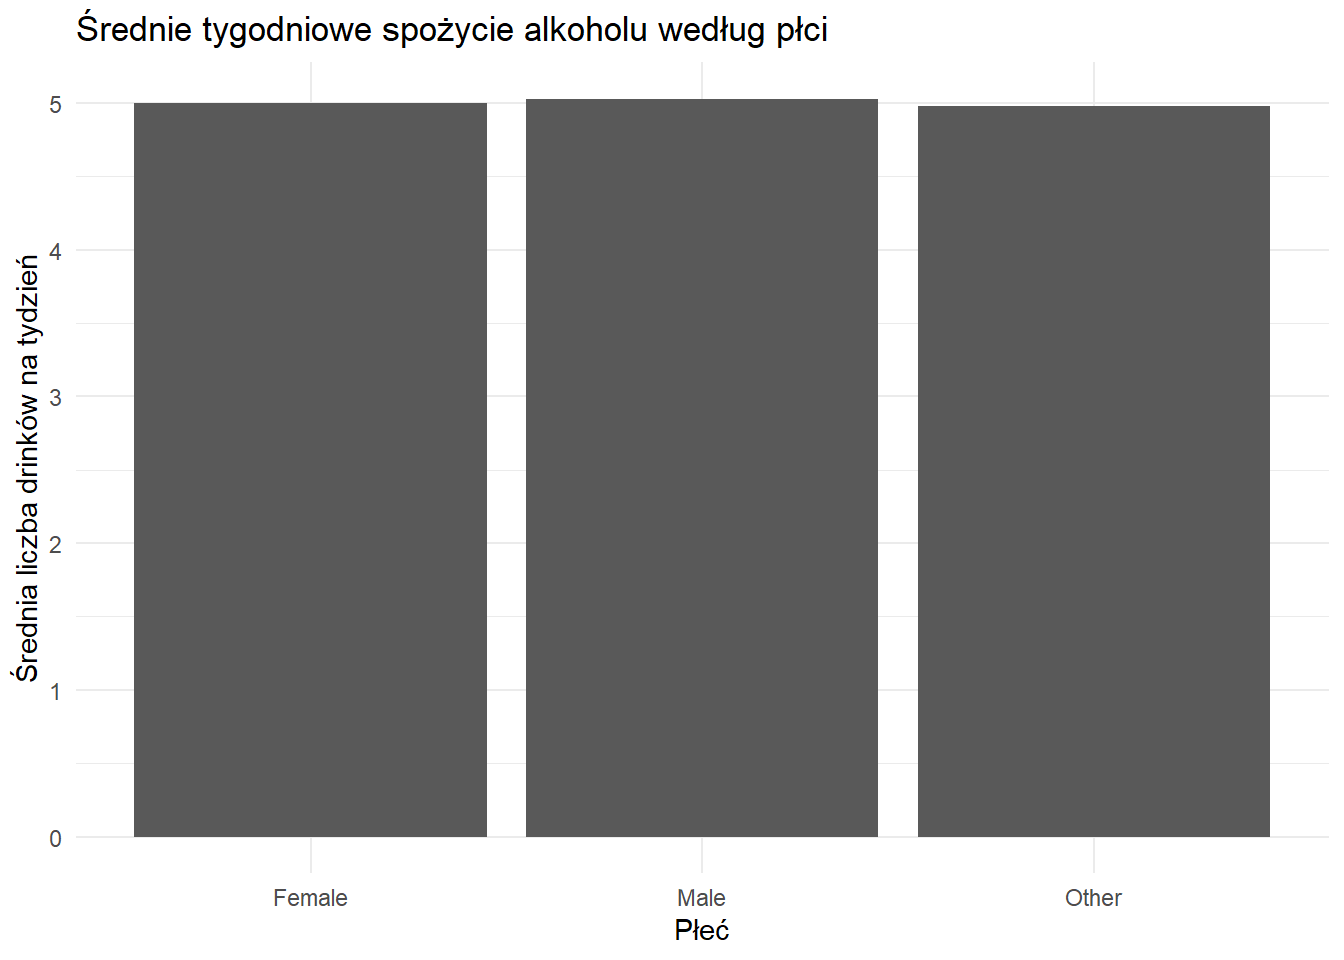
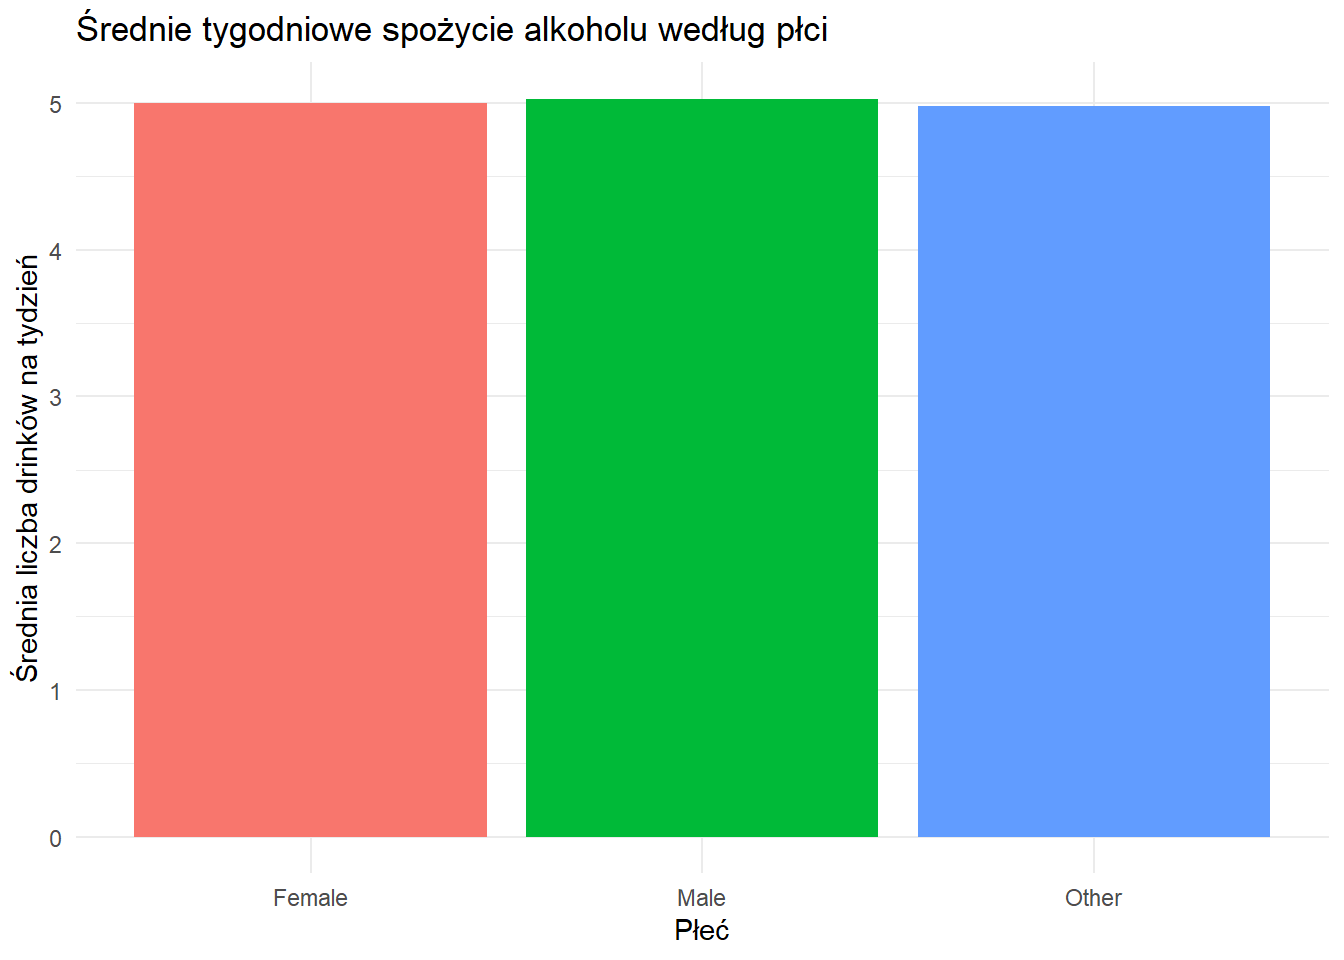
dodanie-kolorow

diff --git a/docs/analiza.html b/docs/analiza.html
@@ -11,7 +11,7 @@
 
 <meta name="author" content="Kajetan Kaczyński" />
 
-<meta name="date" content="2026-01-14" />
+<meta name="date" content="2026-01-16" />
 
 <title>Analiza danych dotyczących zachowań zdrowotnych i uzależnień</title>
 
@@ -381,7 +381,7 @@ div.tocify {
 <h1 class="title toc-ignore">Analiza danych dotyczących zachowań
 zdrowotnych i uzależnień</h1>
 <h4 class="author">Kajetan Kaczyński</h4>
-<h4 class="date">2026-01-14</h4>
+<h4 class="date">2026-01-16</h4>
 
 </div>
 
@@ -410,7 +410,7 @@ aria-hidden="true"></span> </a>
 <div class="tab-content">
 <div id="summary" class="tab-pane fade in active">
 <p>
-<strong>Last updated:</strong> 2026-01-14
+<strong>Last updated:</strong> 2026-01-16
 </p>
 <p>
 <strong>Checks:</strong> <span
@@ -544,15 +544,15 @@ project makes it easier to run your code on other machines.</p>
 <div class="panel panel-default">
 <div class="panel-heading">
 <p class="panel-title">
-<a data-toggle="collapse" data-parent="#workflowr-checks" href="#strongRepositoryversionstrongahrefhttpsgithubcomK4j745KKprogramrtreedd69dc56c4fa036e4ccbe00f48bdd0d966735bf2targetblankdd69dc5a">
+<a data-toggle="collapse" data-parent="#workflowr-checks" href="#strongRepositoryversionstrongahrefhttpsgithubcomK4j745KKprogramrtree1e31b9c4e70c803ec3b2b6c8d0462f393568eb8ftargetblank1e31b9ca">
 <span class="glyphicon glyphicon-ok text-success"
 aria-hidden="true"></span> <strong>Repository version:</strong>
-<a href="https://github.com/K4j745/KK_program_r/tree/dd69dc56c4fa036e4ccbe00f48bdd0d966735bf2" target="_blank">dd69dc5</a>
+<a href="https://github.com/K4j745/KK_program_r/tree/1e31b9c4e70c803ec3b2b6c8d0462f393568eb8f" target="_blank">1e31b9c</a>
 </a>
 </p>
 </div>
 <div
[2 lines of base64/hex data omitted]
 class="panel-collapse collapse">
 <div class="panel-body">
 <p>
@@ -562,7 +562,7 @@ reproducibility.
 </p>
 <p>
 The results in this page were generated with repository version
-<a href="https://github.com/K4j745/KK_program_r/tree/dd69dc56c4fa036e4ccbe00f48bdd0d966735bf2" target="_blank">dd69dc5</a>.
+<a href="https://github.com/K4j745/KK_program_r/tree/1e31b9c4e70c803ec3b2b6c8d0462f393568eb8f" target="_blank">1e31b9c</a>.
 See the <em>Past versions</em> tab to see a history of the changes made
 to the R Markdown and HTML files.
 </p>
@@ -580,9 +580,7 @@ Ignored files:
     Ignored:    .RData
     Ignored:    .Rhistory
     Ignored:    .Rproj.user/
-
-Untracked files:
-    Untracked:  analysis/addiction_population_data.csv
+    Ignored:    analysis/prezentacja.html
 
 Unstaged changes:
     Modified:   analysis/analiza.Rmd
@@ -631,6 +629,40 @@ Message
 </tr>
 </thead>
 <tbody>
+<tr>
+<td>
+Rmd
+</td>
+<td>
+<a href="https://github.com/K4j745/KK_program_r/blob/1e31b9c4e70c803ec3b2b6c8d0462f393568eb8f/analysis/analiza.Rmd" target="_blank">1e31b9c</a>
+</td>
+<td>
+Kajetan
+</td>
+<td>
+2026-01-14
+</td>
+<td>
+War_is_over
+</td>
+</tr>
+<tr>
+<td>
+html
+</td>
+<td>
+<a href="https://rawcdn.githack.com/K4j745/KK_program_r/1e31b9c4e70c803ec3b2b6c8d0462f393568eb8f/docs/analiza.html" target="_blank">1e31b9c</a>
+</td>
+<td>
+Kajetan
+</td>
+<td>
+2026-01-14
+</td>
+<td>
+War_is_over
+</td>
+</tr>
 <tr>
 <td>
 Rmd
@@ -716,15 +748,53 @@ dane &lt;- read.csv(&quot;analysis/addiction_population_data.csv&quot;)</code></
 <div id="wykres-słupkowy-spożycie-alkoholu-według-płci"
 class="section level3">
 <h3>Wykres słupkowy – spożycie alkoholu według płci</h3>
-<pre class="r"><code>ggplot(alkohol_plec, aes(x = gender, y = srednia_liczba_drinkow)) +
+<pre class="r"><code>ggplot(alkohol_plec, aes(x = gender, y = srednia_liczba_drinkow, fill = gender)) +
   geom_col() +
   labs(
     title = &quot;Średnie tygodniowe spożycie alkoholu według płci&quot;,
     x = &quot;Płeć&quot;,
     y = &quot;Średnia liczba drinków na tydzień&quot;
   ) +
-  theme_minimal()</code></pre>
+  theme_minimal() +
+  guides(fill = &quot;none&quot;)</code></pre>
 <p><img src="figure/analiza.Rmd/unnamed-chunk-3-1.png" width="672" style="display: block; margin: auto;" /></p>
+<p>
+<button type="button" class="btn btn-default btn-xs btn-workflowr btn-workflowr-fig" data-toggle="collapse" data-target="#fig-unnamed-chunk-3-1">
+Past versions of unnamed-chunk-3-1.png
+</button>
+</p>
+<div id="fig-unnamed-chunk-3-1" class="collapse">
+<div class="table-responsive">
+<table class="table table-condensed table-hover">
+<thead>
+<tr>
+<th>
+Version
+</th>
+<th>
+Author
+</th>
+<th>
+Date
+</th>
+</tr>
+</thead>
+<tbody>
+<tr>
+<td>
+<a href="https://github.com/K4j745/KK_program_r/blob/1e31b9c4e70c803ec3b2b6c8d0462f393568eb8f/docs/figure/analiza.Rmd/unnamed-chunk-3-1.png" target="_blank">1e31b9c</a>
+</td>
+<td>
+Kajetan
+</td>
+<td>
+2026-01-14
+</td>
+</tr>
+</tbody>
+</table>
+</div>
+</div>
 <p>Komentarz: Wykres przedstawia różnice w średnim spożyciu alkoholu
 pomiędzy płciami.</p>
 <hr />
@@ -740,7 +810,8 @@ class="section level3">
   )
 
 ggplot(papierosy_wiek, aes(x = age, y = srednia_papierosow)) +
-  geom_line() +
+  geom_line(color = &quot;steelblue&quot;, linewidth = 1.2) +
+  geom_point(color = &quot;darkred&quot;, size = 2) +
   labs(
     title = &quot;Średnia liczba wypalanych papierosów w zależności od wieku&quot;,
     x = &quot;Wiek&quot;,
@@ -748,6 +819,43 @@ ggplot(papierosy_wiek, aes(x = age, y = srednia_papierosow)) +
   ) +
   theme_minimal()</code></pre>
 <p><img src="figure/analiza.Rmd/unnamed-chunk-4-1.png" width="672" style="display: block; margin: auto;" /></p>
+<p>
+<button type="button" class="btn btn-default btn-xs btn-workflowr btn-workflowr-fig" data-toggle="collapse" data-target="#fig-unnamed-chunk-4-1">
+Past versions of unnamed-chunk-4-1.png
+</button>
+</p>
+<div id="fig-unnamed-chunk-4-1" class="collapse">
+<div class="table-responsive">
+<table class="table table-condensed table-hover">
+<thead>
+<tr>
+<th>
+Version
+</th>
+<th>
+Author
+</th>
+<th>
+Date
+</th>
+</tr>
+</thead>
+<tbody>
+<tr>
+<td>
+<a href="https://github.com/K4j745/KK_program_r/blob/1e31b9c4e70c803ec3b2b6c8d0462f393568eb8f/docs/figure/analiza.Rmd/unnamed-chunk-4-1.png" target="_blank">1e31b9c</a>
+</td>
+<td>
+Kajetan
+</td>
+<td>
+2026-01-14
+</td>
+</tr>
+</tbody>
+</table>
+</div>
+</div>
 <p>Komentarz: Wykres pokazuje, jak intensywność palenia zmienia się wraz
 z wiekiem.</p>
 <hr />
@@ -755,7 +863,11 @@ z wiekiem.</p>
 <div id="histogram-rozkład-bmi" class="section level3">
 <h3>Histogram – rozkład BMI</h3>
 <pre class="r"><code>ggplot(dane, aes(x = bmi)) +
-  geom_histogram(bins = 30) +
+  geom_histogram(
+    bins = 30,
+    fill = &quot;skyblue&quot;,
+    color = &quot;black&quot;
+  ) +
   labs(
     title = &quot;Rozkład wskaźnika BMI&quot;,
     x = &quot;BMI&quot;,
@@ -763,6 +875,43 @@ z wiekiem.</p>
   ) +
   theme_minimal()</code></pre>
 <p><img src="figure/analiza.Rmd/unnamed-chunk-5-1.png" width="672" style="display: block; margin: auto;" /></p>
+<p>
+<button type="button" class="btn btn-default btn-xs btn-workflowr btn-workflowr-fig" data-toggle="collapse" data-target="#fig-unnamed-chunk-5-1">
+Past versions of unnamed-chunk-5-1.png
+</button>
+</p>
+<div id="fig-unnamed-chunk-5-1" class="collapse">
+<div class="table-responsive">
+<table class="table table-condensed table-hover">
+<thead>
+<tr>
+<th>
+Version
+</th>
+<th>
+Author
+</th>
+<th>
+Date
+</th>
+</tr>
+</thead>
+<tbody>
+<tr>
+<td>
+<a href="https://github.com/K4j745/KK_program_r/blob/1e31b9c4e70c803ec3b2b6c8d0462f393568eb8f/docs/figure/analiza.Rmd/unnamed-chunk-5-1.png" target="_blank">1e31b9c</a>
+</td>
+<td>
+Kajetan
+</td>
+<td>
+2026-01-14
+</td>
+</tr>
+</tbody>
+</table>
+</div>
+</div>
 <p>Komentarz: Histogram pozwala ocenić rozkład BMI i częstość
 występowania nadwagi i otyłości.</p>
 </div>
